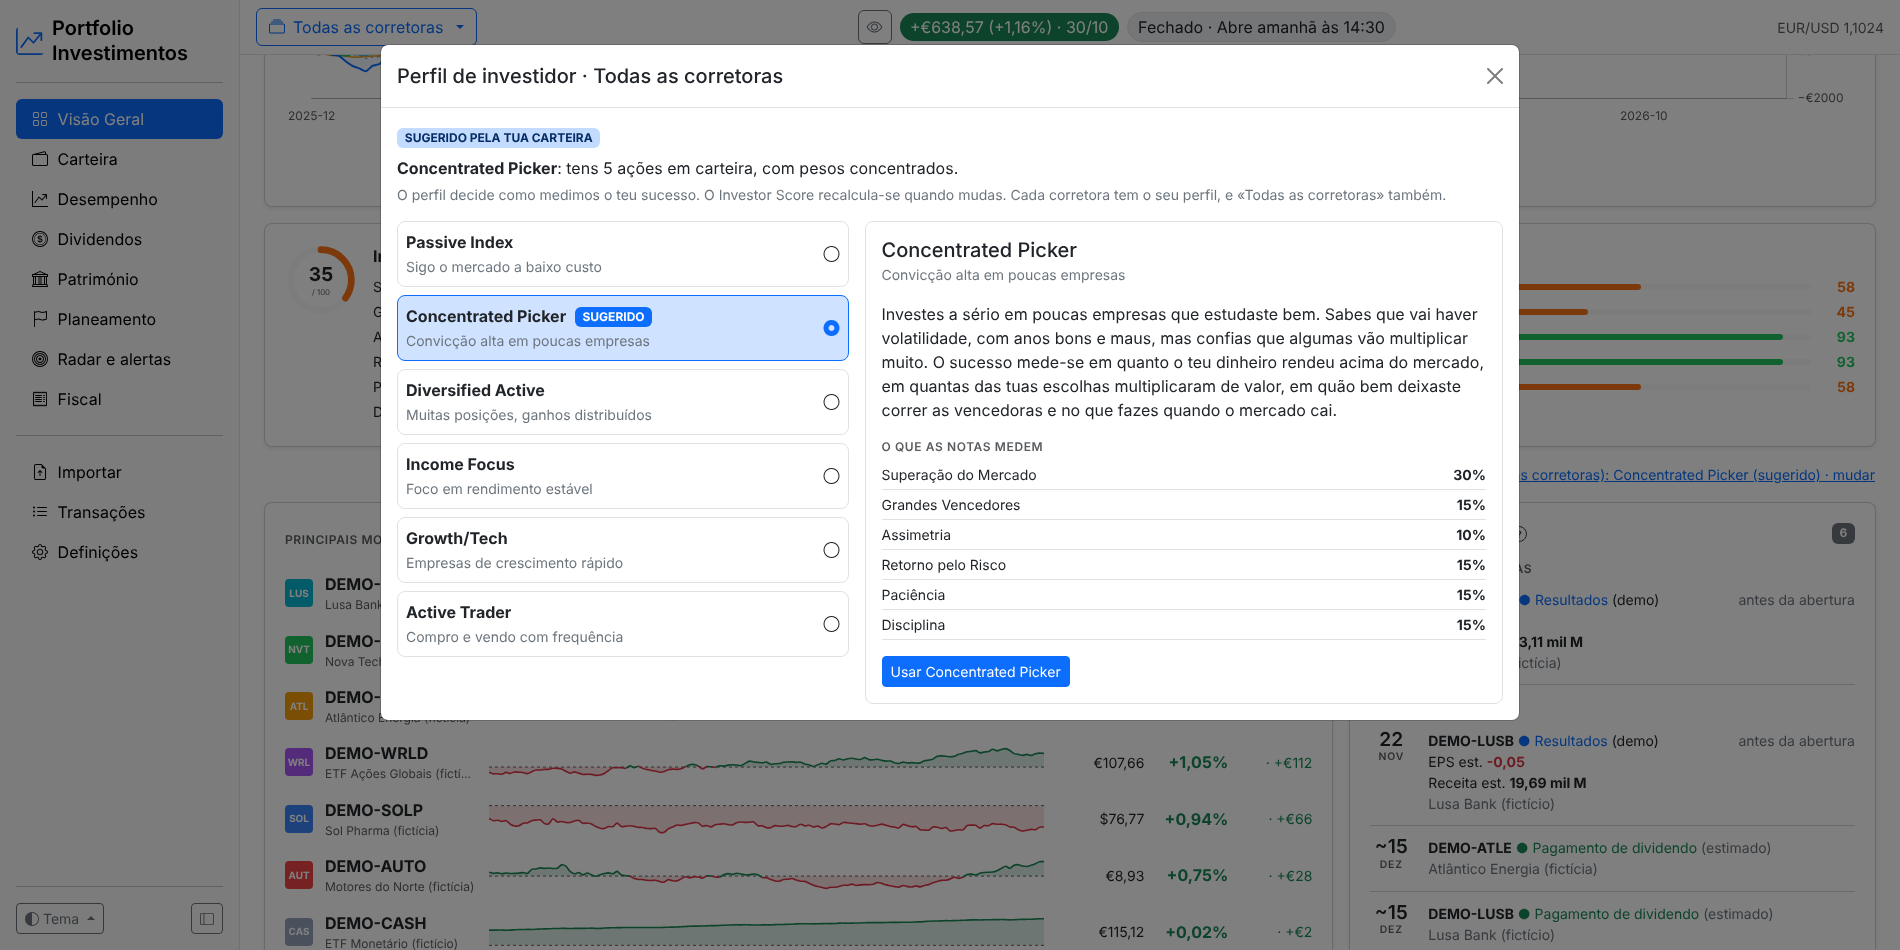
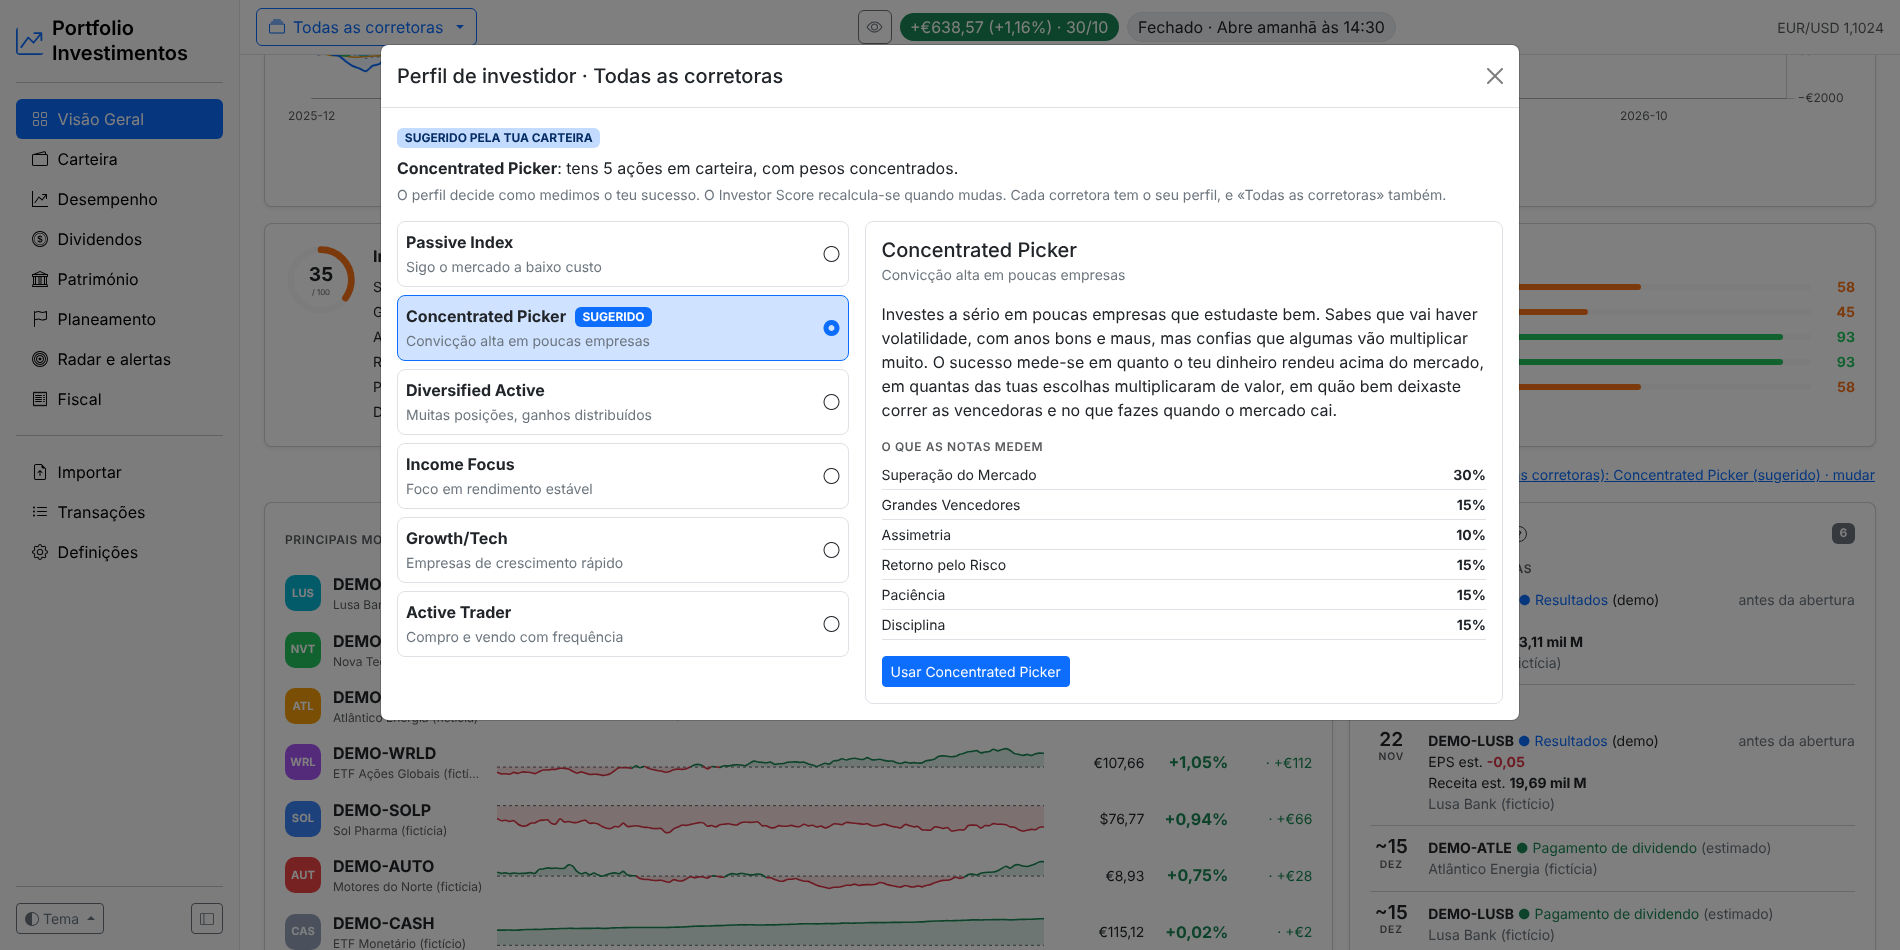
README e capturas de ecrã atualizados
Todas as capturas (claro e escuro) refeitas com os logótipos e as iniciais de 36 px e o gráfico da Visão Geral em YTD; README: os logótipos escolhem-se em Definições → Ativos (a atualização de cotações não os descarrega).

Claude-Session: https://claude.ai/code/session_01AhMv5rzh4esVFWwNf2sje8

diff --git a/README.md b/README.md
@@ -205,6 +205,8 @@ As cotações, os câmbios, os eventos (resultados e dividendos), o histórico d
 
 Os dados fundamentais (lucro por ação, valor contabilístico, cash flow livre, crescimento, owner earnings, resultado operacional, dívida e caixa), usados em **Carteira → O valor de cada ação**, são pedidos no máximo uma vez por semana por ação. Vêm do resumo do Yahoo e, para o que faltar, das demonstrações financeiras, também da cotação principal da empresa (pelo ISIN), convertidos para a moeda da cotação. Podes corrigi-los à mão no próprio cartão; `python -m portfolio_investimentos --testar-yahoo` mostra o que cada fonte devolve. Confirma em **Definições → Ativos** o *símbolo de dados* de cada ativo (código do Yahoo Finance, ex.: `VWCE.DE`, `IWDA.AS`, `AAPL`).
 
+A atualização de cotações não descarrega logótipos: escolhe-os em **Definições → Ativos**, clicando nas iniciais de cada ativo (uma imagem tua ou o ícone do site da empresa).
+
 O símbolo é escolhido automaticamente pelo ISIN e pelo ticker. Só é aceite um símbolo cotado na moeda do ativo e com preços perto dos das transações. Assim, uma ação americana comprada em euros (ex.: Apple na Xetra, `APC.DE`) não fica com a cotação em dólares, e as cotações de Londres em pence são convertidas para libras.
 
 ## Importação: Trading 212

diff --git a/CHANGELOG.md b/CHANGELOG.md
@@ -4,6 +4,8 @@ O que mudou em cada commit, do mais recente para o mais antigo (gerado a partir 
 
 ## 2026-11-05
 
+- **README e capturas de ecrã atualizados**  
+  Todas as capturas (claro e escuro) refeitas com os logótipos e as iniciais de 36 px e o gráfico da Visão Geral em YTD; README com os logótipos só à mão.
 - **Logótipos maiores e mais arredondados**  
   Os logótipos e as iniciais dos ativos passam de 28 para 36 px, com cantos de 10 px, como nas apps das corretoras.
 - **Logótipos a preencher o quadrado**  
